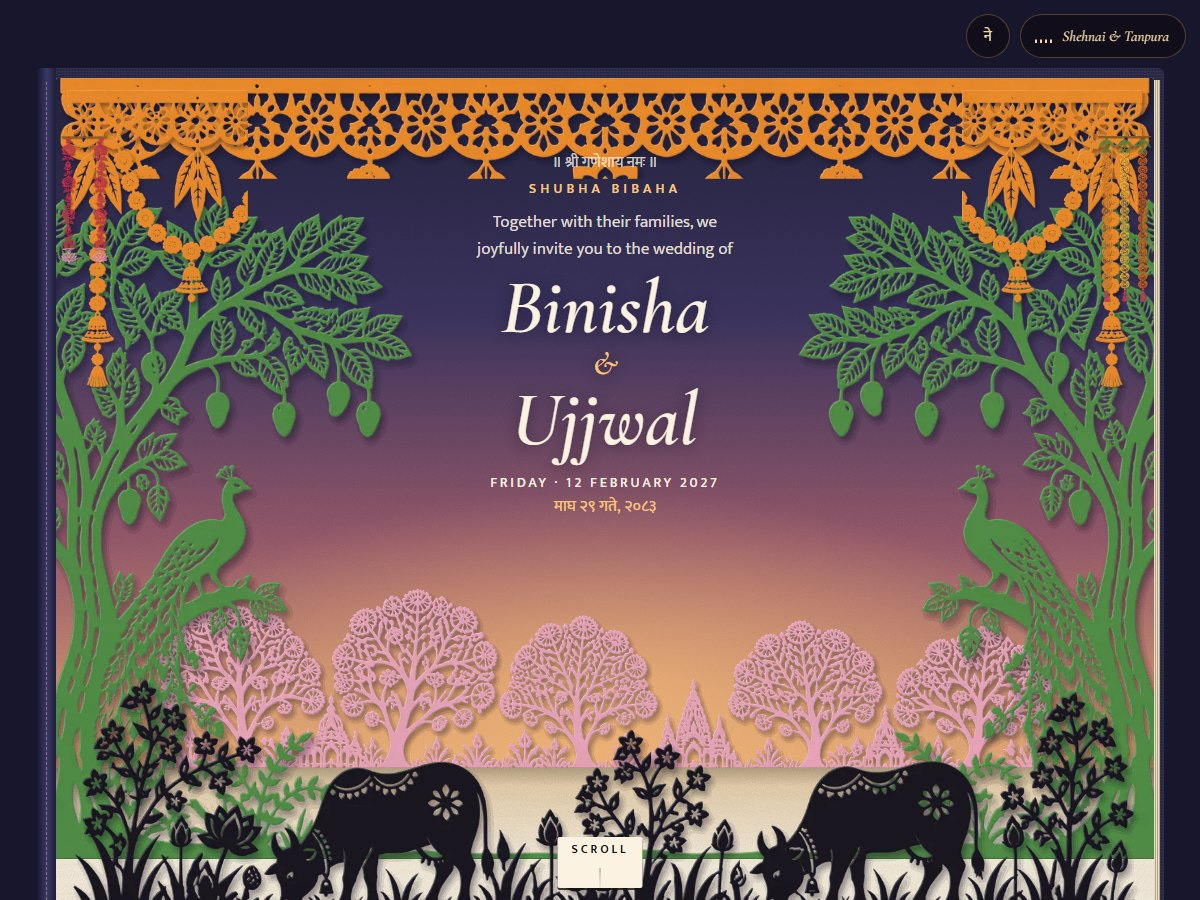
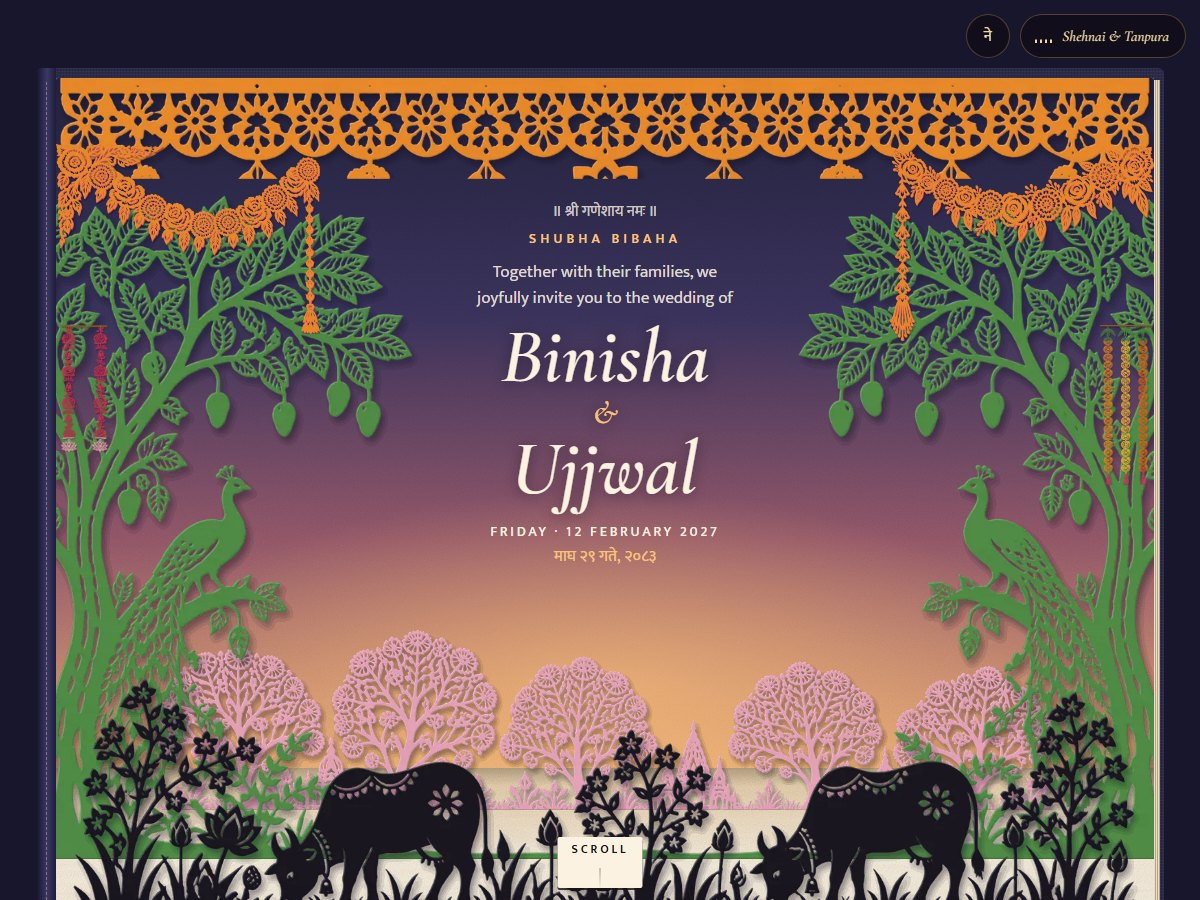
fix(sanjhi): whole corner garlands ending in tassels; full-width lotus pond on the phone cover

diff --git a/src/themes/sanjhi/sanjhi.css b/src/themes/sanjhi/sanjhi.css
@@ -60,24 +60,24 @@ body.su-locked .sj-after { visibility: hidden; }
 .sj-cover__cloth::after { content: ''; position: absolute; inset: 0; border-radius: inherit; background: linear-gradient(180deg, rgba(0, 0, 0, 0.35), transparent 5%, transparent 95%, rgba(0, 0, 0, 0.25)); }
 .sj-cover__rule { position: absolute; inset: 14px; border: 1px solid color-mix(in srgb, var(--sj-gold) 80%, transparent); border-radius: 2px; pointer-events: none; }
 .sj-cover__rule::after { content: ''; position: absolute; inset: 5px; border: 1px solid color-mix(in srgb, var(--sj-gold) 45%, transparent); }
-.sj-cover__pond { position: absolute; left: 14px; right: 14px; bottom: 14px; height: 16%; overflow: hidden; pointer-events: none; }
-.sj-cover__pond img { position: absolute; bottom: 0; height: auto; }
-.sj-cover__lotus { left: 22%; width: 56%; bottom: 8% !important; }
-.sj-cover__leaves { left: -10%; width: 120%; }
-.sj-cover__title { position: absolute; left: 0; right: 0; top: max(58px, 8svh); margin: 0; text-align: center; color: var(--sj-gold);
+.sj-cover__pond { position: absolute; left: 15px; right: 15px; bottom: 15px; height: 30%; pointer-events: none; }
+.sj-cover__pond img { position: absolute; left: 0; width: 100%; object-fit: cover; object-position: 50% 100%; }
+.sj-cover__lotus { bottom: 14%; height: 78%; }
+.sj-cover__leaves { bottom: 0; height: 46%; }
+.sj-cover__title { position: absolute; left: 0; right: 0; top: max(52px, 6.5svh); margin: 0; text-align: center; color: var(--sj-gold);
   font: 500 15px/1.2 'Mukta', sans-serif; letter-spacing: 0.36em; text-transform: uppercase; }
 .sj-cover__title .l-ne { font: 400 28px/1.3 var(--sj-f-deva); letter-spacing: 0; text-transform: none; }
-.sj-cover__names { position: absolute; left: 0; right: 0; top: calc(max(100px, 14svh) + min(86vw, 50svh) + 20px); margin: 0; text-align: center;
+.sj-cover__names { position: absolute; left: 0; right: 0; top: calc(max(84px, 10svh) + min(72vw, 40svh) + 14px); margin: 0; text-align: center;
   color: var(--sj-cream); font: italic 600 40px/1.05 var(--sj-f-display); text-shadow: 0 2px 10px rgba(10, 8, 20, 0.5); }
 .sj-cover__names .l-ne { font: 400 0.8em/1.3 var(--sj-f-deva); }
-.sj-cover__date { position: absolute; left: 0; right: 0; top: calc(max(100px, 14svh) + min(86vw, 50svh) + 72px); margin: 0; text-align: center;
+.sj-cover__date { position: absolute; left: 0; right: 0; top: calc(max(84px, 10svh) + min(72vw, 40svh) + 62px); margin: 0; text-align: center;
   color: var(--sj-gold); font: 500 13px/1.4 'Mukta', sans-serif; letter-spacing: 0.3em; text-transform: uppercase; }
 .sj-cover__date .l-ne { font-size: 16px; letter-spacing: 0.04em; }
 .sj-cover__date::before, .sj-cover__date::after { content: ''; display: inline-block; width: 6px; height: 6px; margin: 0 14px; rotate: 45deg; vertical-align: 2px; background: var(--sj-saffron); }
 .sj-cover__names .su-n, .sj-cover__names .su-amp { display: inline; }
 .sj-cover__names .su-amp { margin: 0 0.3em; color: var(--sj-gold); font-size: 0.7em; }
 .sj-cover__names .l-ne { font-size: 0.86em; }
-.sj-plate { position: absolute; left: 50%; top: max(100px, 14svh); width: min(86vw, 50svh); aspect-ratio: 1; translate: -50% 0; }
+.sj-plate { position: absolute; left: 50%; top: max(84px, 10svh); width: min(72vw, 40svh); aspect-ratio: 1; translate: -50% 0; }
 .sj-plate__paper { position: absolute; inset: 0; background: var(--sj-fibre), var(--sj-grain), var(--sj-cream); border-radius: 2px;
   box-shadow: 0 0 0 1px rgba(217, 178, 106, 0.6), 0 2px 0 1px rgba(10, 8, 20, 0.35), 0 18px 30px -16px rgba(0, 0, 0, 0.7); }
 .sj-powder, .sj-stencil { position: absolute; inset: 4%; width: 92%; height: 92%; }
@@ -90,7 +90,7 @@ body.su-locked .sj-after { visibility: hidden; }
 .sj-dust i { position: absolute; width: 9px; height: 9px; margin: -4px; border-radius: 50%; opacity: 0; scale: var(--s);
   background: radial-gradient(circle, var(--c) 0 40%, color-mix(in srgb, var(--c) 40%, transparent) 60%, transparent 72%); }
 body.theme-sanjhi .su-gate__ui { color: var(--sj-cream); }
-@media (max-width: 760px) { body.theme-sanjhi .su-gate__ui { bottom: 18.5svh; gap: 8px; } }
+@media (max-width: 760px) { body.theme-sanjhi .su-gate__ui { bottom: calc(30% + 22px); gap: 6px; } }
 .theme-sanjhi .su-gate__line { font: 500 17px/1.4 'Mukta', sans-serif; letter-spacing: 0.02em; color: var(--sj-cream); }
 .theme-sanjhi .su-gate__line .l-ne { font: 500 18px/1.5 'Mukta', sans-serif; }
 .theme-sanjhi .su-quiet { color: color-mix(in srgb, var(--sj-cream) 88%, transparent); }
@@ -101,12 +101,12 @@ body.sj-moving .sj-stencil, body.sj-moving .sj-cover, body.sj-moving .sj-l { wil
   .sj-cover::before { content: ''; position: absolute; left: 0; top: 0; bottom: 0; width: 22px; z-index: 1; border-radius: 4px 0 0 4px;
     background: linear-gradient(90deg, rgba(0, 0, 0, 0.45), rgba(255, 255, 255, 0.06) 70%, rgba(0, 0, 0, 0.2)); }
   .sj-cover__rule { inset: 18px 18px 18px 34px; }
-  .sj-plate { top: 10.5%; width: 52%; left: calc(50% + 8px); }
-  .sj-cover__pond { left: 34px; right: 18px; bottom: 18px; height: 18%; }
+  .sj-plate { top: 9.5%; width: 50%; left: calc(50% + 8px); }
+  .sj-cover__pond { left: 35px; right: 19px; bottom: 19px; height: 22%; }
   .sj-cover__title { top: 6.5%; }
-  .sj-cover__names { top: calc(10.5% + 52% * 0.76 + 1.5%); font-size: 46px; }
-  .sj-cover__date { top: calc(10.5% + 52% * 0.76 + 8.5%); }
-  .theme-sanjhi .su-gate__ui { bottom: calc((100svh - min(100svh - 56px, 900px)) / 2 + min(100svh - 56px, 900px) * 0.2); }
+  .sj-cover__names { top: calc(9.5% + 50% * 0.76 + 1.5%); font-size: 46px; }
+  .sj-cover__date { top: calc(9.5% + 50% * 0.76 + 8.5%); }
+  .theme-sanjhi .su-gate__ui { bottom: calc((100svh - min(100svh - 56px, 900px)) / 2 + min(100svh - 56px, 900px) * 0.245); }
 }
 
 /* ───────── the book ───────── */
@@ -186,7 +186,7 @@ html[data-lang='ne'] .sj-hero__bs { display: none; }
 @media (min-width: 761px) {
   .sj-words { top: 15%; width: min(44%, 600px); }
   .sj-stage--river .sj-moon { top: 31%; right: 9%; width: 96px; }
-  .sj-hero .sj-words { top: 9%; width: min(38%, 540px); }
+  .sj-hero .sj-words { top: 15%; width: min(38%, 540px); }
   .sj-names { font-size: clamp(64px, 6.4vw, 100px); }
   .sj-inv { font-size: 15px; }
   .sj-hero__title, .sj-kick { font-size: 13.5px; }

diff --git a/src/themes/sanjhi/main.js b/src/themes/sanjhi/main.js
@@ -17,14 +17,14 @@ const PHONE = '(max-width: 760px)';
 // `hang` layers (the toran) hang from the top edge and drop down instead of standing up.
 const SPREADS = {
   grove: [
-    ['grove-kadamba', { w: 84, b: 16 }, { w: 112, b: 27 }],
+    ['grove-kadamba', { w: 84, b: 11 }, { w: 112, b: 27 }],
     ['grove-mango', { w: 118, b: 5 }, { w: 104, b: 8.5 }],
     ['grove-cows', { w: 100, b: -1 }, { w: 150, b: 0 }],
     ['toran-band', { w: 101, t: -0.5, hang: true }, { w: 104, t: 5.5, hang: true }],
-    ['toran-l', { w: 17, t: 1.5, l: 9, hang: true }, null],
-    ['toran-r', { w: 17, t: 1.5, l: 91, hang: true }, null],
-    ['ladi-rose', { w: 4.2, t: 7, l: 2.6, hang: true }, null, true],
-    ['ladi-marigold', { w: 4.8, t: 7, l: 97.3, hang: true }, null, true],
+    ['garland-l', { w: 24, t: 8, l: 12, hang: true }, null],
+    ['garland-r', { w: 24, t: 8, l: 88, hang: true }, null],
+    ['ladi-rose', { w: 4.2, t: 30, l: 2.6, hang: true }, null, true],
+    ['ladi-marigold', { w: 4.6, t: 30, l: 97.4, hang: true }, null, true],
   ],
   homes: [
     ['village', { w: 86, b: 24 }, { w: 124, b: 36 }],
@@ -52,11 +52,11 @@ const SPREADS = {
 // corners of a wide page, its centre across a phone's), and hanging strings of marigolds and of roses ending in a lotus.
 // They hang below the corner buttons and beside the words, never behind them. `same`: one file for both widths.
 const GARNISH = (flip) => [
-  ['garland-l', { w: 26, t: 0, l: 13, hang: true }, null],
-  ['garland-r', { w: 26, t: 0, l: 87, hang: true }, null],
+  ['garland-l', { w: 27, t: 0, l: 13.5, hang: true }, null],
+  ['garland-r', { w: 27, t: 0, l: 86.5, hang: true }, null],
   ['garland', null, { w: 98, t: 4.5, hang: true }, false, 'garland-m'],
-  [flip ? 'ladi-rose' : 'ladi-marigold', { w: 4.2, t: 21, l: 2.6, hang: true }, { w: 11, t: 15, l: 7, hang: true }, true],
-  [flip ? 'ladi-marigold' : 'ladi-rose', { w: 4.2, t: 21, l: 97.4, hang: true }, { w: 11, t: 15, l: 93, hang: true }, true],
+  [flip ? 'ladi-rose' : 'ladi-marigold', { w: 4.2, t: 27, l: 2.6, hang: true }, { w: 11, t: 15, l: 7, hang: true }, true],
+  [flip ? 'ladi-marigold' : 'ladi-rose', { w: 4.2, t: 27, l: 97.4, hang: true }, { w: 11, t: 15, l: 93, hang: true }, true],
 ];
 ['homes', 'pond', 'river', 'mandap'].forEach((k, i) => SPREADS[k].push(...GARNISH(i % 2 === 1)));
 
@@ -144,7 +144,7 @@ function gate(ctx) {
       </div>
       <p class="sj-cover__names">${ctx.names('&amp;')}</p>
       <p class="sj-cover__date">${bi({ en: `${ctx.AD.day} ${ctx.AD.month.en} ${ctx.AD.year}`, ne: ctx.BS.day ? `${ctx.BS.month} ${ctx.BS.day}, ${ctx.BS.year}` : ctx.AD.full.ne })}</p>
-      <div class="sj-cover__pond"><img class="sj-cover__lotus" src="${ART}lotus-m.webp" alt="" decoding="async" /><img class="sj-cover__leaves" src="${ART}pond-front-m.webp" alt="" decoding="async" /></div>
+      <div class="sj-cover__pond"><img class="sj-cover__lotus" src="${ART}lotus.webp" alt="" decoding="async" /><img class="sj-cover__leaves" src="${ART}pond-front.webp" alt="" decoding="async" /></div>
       </div>
     </div>
   </div>`;

diff --git a/src/themes/sanjhi/build_art.py b/src/themes/sanjhi/build_art.py
@@ -153,8 +153,7 @@ for name, col, mode, keep in LAYERS:
 
 
 def toran():
-    """the toran: its lace band runs across the top of page one; on a wide page its two outer marigold swags with
-    their bells hang in the corners (the words stand between them, never on the flowers)"""
+    """the toran: its lace band runs across the top of page one"""
     a = load_alpha('toran')
     h, w = a.shape
     rows = np.nonzero((a > 0.5).sum(1) > 4)[0]
@@ -164,9 +163,6 @@ def toran():
     col = '#E7882A'
     save(paper(band, col), 'toran-band', 1600)
     save(paper(phone(band, 'mid', 0.6), col), 'toran-band-m', 1100)
-    cut = int(w * 0.255)
-    save(paper(a[:, :cut], col), 'toran-l', 520)
-    save(paper(a[:, w - cut:], col), 'toran-r', 520)
 
 
 def multicolour(a, colmap):
@@ -214,9 +210,18 @@ def garlands():
         save(multicolour(both, cm), 'garland', 1600)
         x0 = int(w * 0.19)  # the phone band: the centre of the garland
         save(multicolour(both[:, x0:w - x0], cm[:, x0:w - x0]), 'garland-m', 1100)
-        cut = int(w * 0.46)  # a wide page: the two outer halves, hung in the corners
-        save(multicolour(both[:, :cut], cm[:, :cut]), 'garland-l', 800)
-        save(multicolour(both[:, w - cut:], cm[:, w - cut:]), 'garland-r', 800)
+    # a wide page: a whole corner garland in each top corner, each swag ending in its own tassel of buds
+    for side in ('l', 'r'):
+        if not (RAW / f'corner-{side}.png').exists():
+            continue
+        a = load_alpha(f'corner-{side}')
+        ys, xs = np.nonzero(a > 0.5)
+        a = a[ys.min():ys.max() + 1, xs.min():xs.max() + 1]
+        back = shift(a, 6, 6)
+        both = np.maximum(a, back)
+        cm = np.ones(a.shape + (3,), np.float32) * hexrgb('#D94A6A')
+        cm[a > 0.5] = hexrgb('#E7882A')
+        save(multicolour(both, cm), f'garland-{side}', 900)
 
 
 def stencil():

diff --git a/src/themes/sanjhi/README.md b/src/themes/sanjhi/README.md
@@ -27,7 +27,7 @@ page under the pop-up (`.sj-sheet`, the same cream paper) scrolls on with the de
 `will-change` only while the opening runs (`body.sj-moving`). Built with `gsap.matchMedia` so a phone/desktop switch
 rebuilds the timelines.
 1. Page one (hero): kadamba trees, two mango trees with peacocks, grazing cows, a lace toran band (and on a wide page
-   two marigold swags with bells in the corners, never behind the words). Under it: the couple's photograph tipped in
+   corner garlands of marigolds and roses, each ending in a tassel, never behind the words). Under it: the couple's photograph tipped in
    with paper corners, and the date under coloured powder (the scratch cover is the coloured Sanjhi plate).
 2. Two homes (families): a far village, two houses facing each other, a lotus-lattice fence.
 3. By the lotus pond (programme): a lakeside pavilion, pink lotuses, a lotus-leaf border; each ceremony on its own paper tag.
